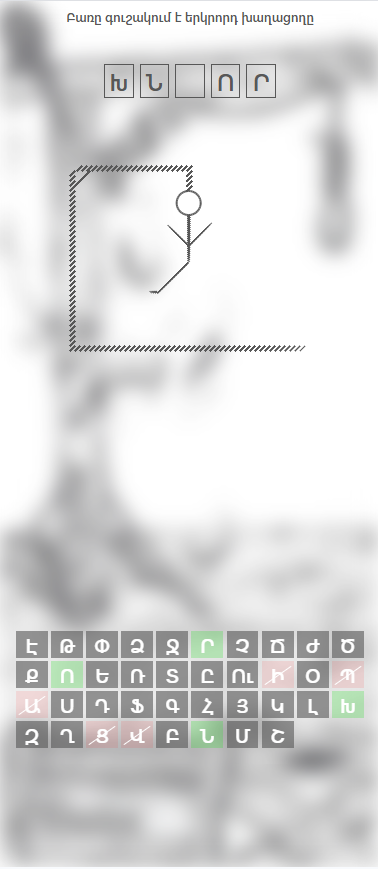
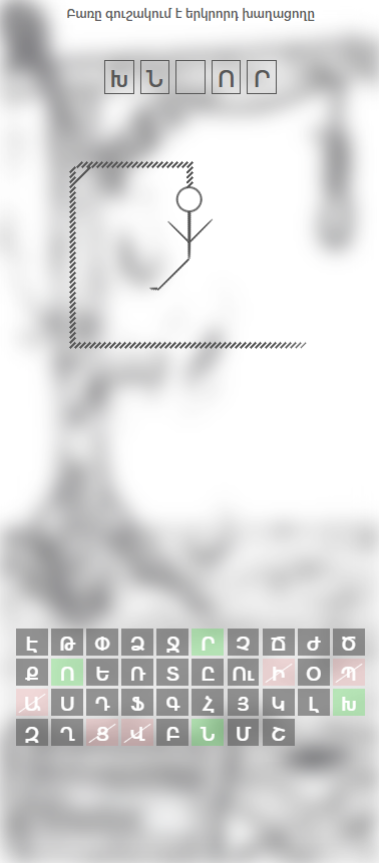
doing

diff --git a/src/components/stages/discovery/index.tsx b/src/components/stages/discovery/index.tsx
@@ -14,18 +14,21 @@ import { incrementCurrentPlayerPoint } from 'store/app/slice'
 import { Hangman } from './hangman'
 import styles from './styles.module.css'
 
+type ExtendedLetters = (typeof LETTERS)[number] | ' '
+
 export const Discovery: StageComponent = ({ toNextPage }) => {
   const dispatch = useAppDispatch()
   const { currentWord, mode, settings } = useAppSelector(selectAppOptions)
   const currentWordLettersArr = useMemo(() => {
-    return Array.from(currentWord.toUpperCase()) as (typeof LETTERS)[number][]
+    return Array.from(currentWord.toUpperCase()) as ExtendedLetters[number][]
   }, [currentWord])
+  console.log({ currentWordLettersArr })
 
   const [guessedLetters, setGuessedLetters] = useState<{
-    [key in (typeof LETTERS)[number]]?: boolean
+    [key in ExtendedLetters[number]]?: boolean
   }>({})
   const [wastedLetters, setWastedLetters] = useState<{
-    [key in (typeof LETTERS)[number]]?: boolean
+    [key in ExtendedLetters[number]]?: boolean
   }>({})
 
   const wastedLettersCount = useMemo(() => {
@@ -33,7 +36,7 @@ export const Discovery: StageComponent = ({ toNextPage }) => {
   }, [wastedLetters])
 
   const isWordGuessed = useMemo(() => {
-    return currentWordLettersArr.every((letter) => guessedLetters[letter])
+    return currentWordLettersArr.filter((letter) => letter !== ' ').every((letter) => guessedLetters[letter])
   }, [currentWordLettersArr, guessedLetters])
 
   const countdownDeadline = useMemo(() => {
@@ -88,11 +91,14 @@ export const Discovery: StageComponent = ({ toNextPage }) => {
         )}
       >
         {currentWordLettersArr.map((letter, i) => {
+          const isSpace = letter === ' '
+
           return (
             <span
               key={i}
               className={combineClassNames(
                 styles.cell,
+                isSpace && styles.space,
                 isWordGuessed || (!isWordGuessed && (guessedLetters[letter] || wastedLettersCount > 6))
                   ? styles.guessed
                   : undefined

diff --git a/src/components/stages/composition/index.tsx b/src/components/stages/composition/index.tsx
@@ -6,10 +6,11 @@ import { setAppOptions } from 'store/app/slice'
 import { useAppDispatch } from 'hooks/useAppDispatch'
 import { useAppSelector } from 'hooks/useAppSelector'
 import { StageComponent } from 'helpers/types/stage'
-import { LETTERS } from 'helpers/constants/app'
+import { LETTERS, SPACE_CHAR } from 'helpers/constants/app'
 import { combineClassNames } from 'helpers/utils/styles'
 import { CustomButton } from 'components/shared/customButton'
 import styles from './styles.module.css'
+import { normalizeSpaces } from 'helpers/utils/commons'
 
 export const Composition: StageComponent = ({ toNextPage }) => {
   const dispatch = useAppDispatch()
@@ -21,6 +22,9 @@ export const Composition: StageComponent = ({ toNextPage }) => {
     setWord(word + e.currentTarget.name)
   }
 
+  const handleAddSpaceCharClick: MouseEventHandler<HTMLButtonElement> = () => {
+    setWord((prev) => prev + ' ')
+  }
   const handleRemoveCharClick: MouseEventHandler<HTMLButtonElement> = () => {
     setWord((prev) => prev.substring(0, prev.length - 1))
   }
@@ -28,7 +32,7 @@ export const Composition: StageComponent = ({ toNextPage }) => {
   const handleStartDiscovery: MouseEventHandler<HTMLButtonElement> = () => {
     dispatch(
       setAppOptions({
-        currentWord: word,
+        currentWord: normalizeSpaces(word),
       })
     )
     toNextPage()
@@ -53,6 +57,15 @@ export const Composition: StageComponent = ({ toNextPage }) => {
             </button>
           )
         })}
+        <button
+          disabled={!word.length || word.endsWith(' ')}
+          className={combineClassNames(styles.letter, styles.space)}
+          key={SPACE_CHAR}
+          name=" "
+          onClick={handleAddSpaceCharClick}
+        >
+          {SPACE_CHAR}
+        </button>
         <button
           disabled={!word.length}
           className={combineClassNames(styles.letter, styles.remove)}

diff --git a/src/app/getWord/route.ts b/src/app/getWord/route.ts
@@ -9,9 +9,9 @@ export async function POST(request: Request) {
     const { minLettersCount, category, difficulty } = payload
     const AIResponse = await ai.models.generateContent({
       model: 'gemini-2.5-flash',
-      contents: `Ստեղծել մի հայերեն բառ, որը համապատասխանում է հետևյալ չափանիշներին: Բառը պետք է լինի առնվազն ${minLettersCount} տառից բաղկացած, պատկանի "${category}" կատեգորիային  և ունենա "${difficulty}" բարդության մակարդակ հետևյալներից՝ "${Object.values(
+      contents: `Ստեղծել հայերեն բառ, որը համապատասխանում է հետևյալ չափանիշներին: Բառը պետք է լինի առնվազն ${minLettersCount} տառից բաղկացած, պատկանի "${category}" կատեգորիային  և ունենա "${difficulty}" բարդության մակարդակ հետևյալներից՝ "${Object.values(
         DIFFICULTY_LEVELS
-      )}": Պատասխանիր միայն մեկ բառով, առանց լրացուցիչ բացատրությունների կամ մեկնաբանությունների։`,
+      )}": Պատասխանիր միայն մեկ բառով, եթե թեման չի ենթադրում երկու բառ, օրինակ՝ անուն ազգանուն, առանց լրացուցիչ բացատրությունների կամ մեկնաբանությունների։`,
     })
     const res = AIResponse.text
     return new Response(res)

diff --git a/src/app/layout.tsx b/src/app/layout.tsx
@@ -72,14 +72,15 @@ export default function RootLayout({ children }: Readonly<{ children: React.Reac
   return (
     <html lang="hy">
       <head>
-<Script async src="https://www.googletagmanager.com/gtag/js?id=G-HJFMPR9938"></Script>
-<Script>
-  window.dataLayer = window.dataLayer || [];
-  function gtag(){dataLayer.push(arguments);}
-  gtag('js', new Date());
-
-  gtag('config', 'G-HJFMPR9938');
-</Script>
+        <Script async src="https://www.googletagmanager.com/gtag/js?id=G-HJFMPR9938"></Script>
+        <Script id="ga-init" strategy="afterInteractive">
+          {`
+            window.dataLayer = window.dataLayer || [];
+            function gtag(){window.dataLayer.push(arguments);}
+            gtag('js', new Date());
+            gtag('config', 'G-HJFMPR9938');
+          `}
+        </Script>
       </head>
       <body>{children}</body>
     </html>

diff --git a/src/components/stages/discovery/styles.module.css b/src/components/stages/discovery/styles.module.css
@@ -1,7 +1,6 @@
 .discovery {
   .word {
     display: flex;
-    flex-wrap: wrap;
     justify-content: center;
     gap: 0.5rem;
     text-align: center;
@@ -15,8 +14,11 @@
     }
 
     .cell {
-      outline: 1px solid var(--secondary-color);
       flex-basis: calc(100% / 10 - 9 * 0.5rem / 10);
+
+      &:not(.space) {
+        outline: 1px solid var(--secondary-color);
+      }
 
       &:not(.guessed) {
         & > span {
@@ -27,6 +29,9 @@
 
       &.guessed {
         & > span {
+          display: block;
+          width: 100%;
+          height: 100%;
           scale: 1;
         }
       }
@@ -52,7 +57,7 @@
     padding: 2rem 1rem;
     position: fixed;
     left: 0;
-    bottom: 10%;
+    bottom: 0;
     color: var(--primary-color);
     font-weight: 500;
     font-size: 1.25rem;

diff --git a/src/app/manifest.ts b/src/app/manifest.ts
@@ -11,14 +11,16 @@ export default function manifest(): MetadataRoute.Manifest {
     description: 'Հայտնի ԿԱԽԱՂԱՆ (HANGMAN) Խաղի հայկական տարբերակն արդեն հասանելի է առցանց',
     screenshots: [
       {
-        src: '/screenshot2.png',
-        type: 'image/png',
-        sizes: '378x869',
-      },
-      {
         src: '/screenshot1.png',
         type: 'image/png',
         sizes: '381x866',
+        form_factor: 'wide',
+      },
+      {
+        src: '/screenshot2.png',
+        type: 'image/png',
+        sizes: '378x869',
+        form_factor: 'narrow',
       },
       {
         src: '/screenshot3.png',

diff --git a/src/components/stages/start/index.tsx b/src/components/stages/start/index.tsx
@@ -42,8 +42,8 @@ export const Start: StageComponent = ({ toNextPage }) => {
           name={PLAY_MODES.single}
           className={styles.startBtn}
         >
-          Մեկ հոգով
-          <span style={{ position: 'absolute', bottom: 8, left: '50%', fontSize: 6, transform: 'translateX(-50%)' }}>
+          <span style={{ transform: 'translateY(-4px)' }}>Մեկ հոգով</span>
+          <span style={{ position: 'absolute', bottom: 10, left: '50%', fontSize: 7, transform: 'translateX(-50%)' }}>
             արհեստական բանականության դեմ
           </span>
         </Button>

diff --git a/src/app/getWord/client.ts b/src/app/getWord/client.ts
@@ -1,4 +1,5 @@
 // import { TAppSlice } from "store/app/types";
+import { normalizeSpaces } from 'helpers/utils/commons'
 import { GetWordAPI } from './types'
 
 // export const getAppData = (data: IDBObjectStoreParameters) => {
@@ -29,5 +30,5 @@ export const getWord = async (settings: GetWordAPI['payload']): Promise<GetWordA
     body: JSON.stringify(settings),
   })
   const data = await response.text()
-  return data
+  return normalizeSpaces(data)
 }

diff --git a/src/components/stages/settings/index.tsx b/src/components/stages/settings/index.tsx
@@ -66,6 +66,7 @@ export const Settings: StageComponent = ({ toNextPage }) => {
               onChange={onTimeLimitationChange}
               optionType="button"
               buttonStyle="solid"
+              disabled={isPending}
             />
           </Form.Item>
           {withTimeLimit && (

diff --git a/src/components/stages/start/styles.module.css b/src/components/stages/start/styles.module.css
@@ -13,7 +13,8 @@
 
   .startBtn {
     width: 80%;
-    max-width: 200px;
+    min-width: 200px;
+    max-width: 400px;
     height: 60px;
     border-radius: 4px;
     background: linear-gradient(100deg, #575757, #575757b9);

diff --git a/src/components/stages/discovery/hangman/styles.module.css b/src/components/stages/discovery/hangman/styles.module.css
@@ -2,7 +2,7 @@
   text-align: center;
   display: flex;
   justify-content: center;
-  margin: 2rem auto;
+  margin: 1rem auto;
 
   @media (orientation: landscape) {
     position: absolute;

diff --git a/src/helpers/utils/commons.ts b/src/helpers/utils/commons.ts
@@ -10,3 +10,7 @@ export const isInWebView = () => {
     ua.includes('Messenger')
   )
 }
+
+export const normalizeSpaces = (str: string) => {
+  return str.trim().replace(/\s+/g, ' ')
+}
